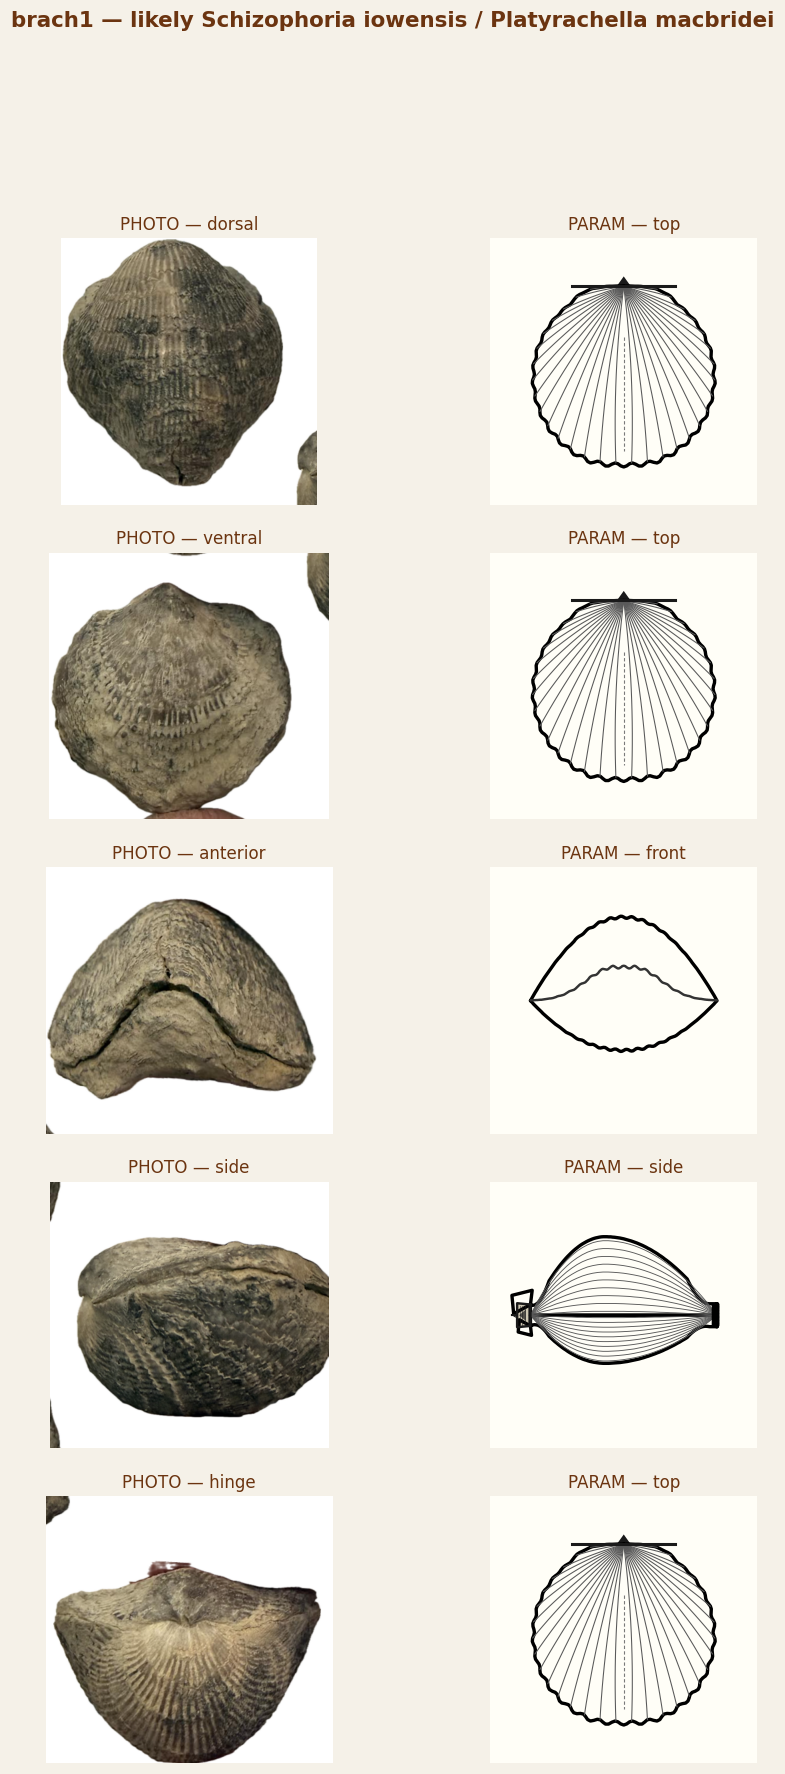
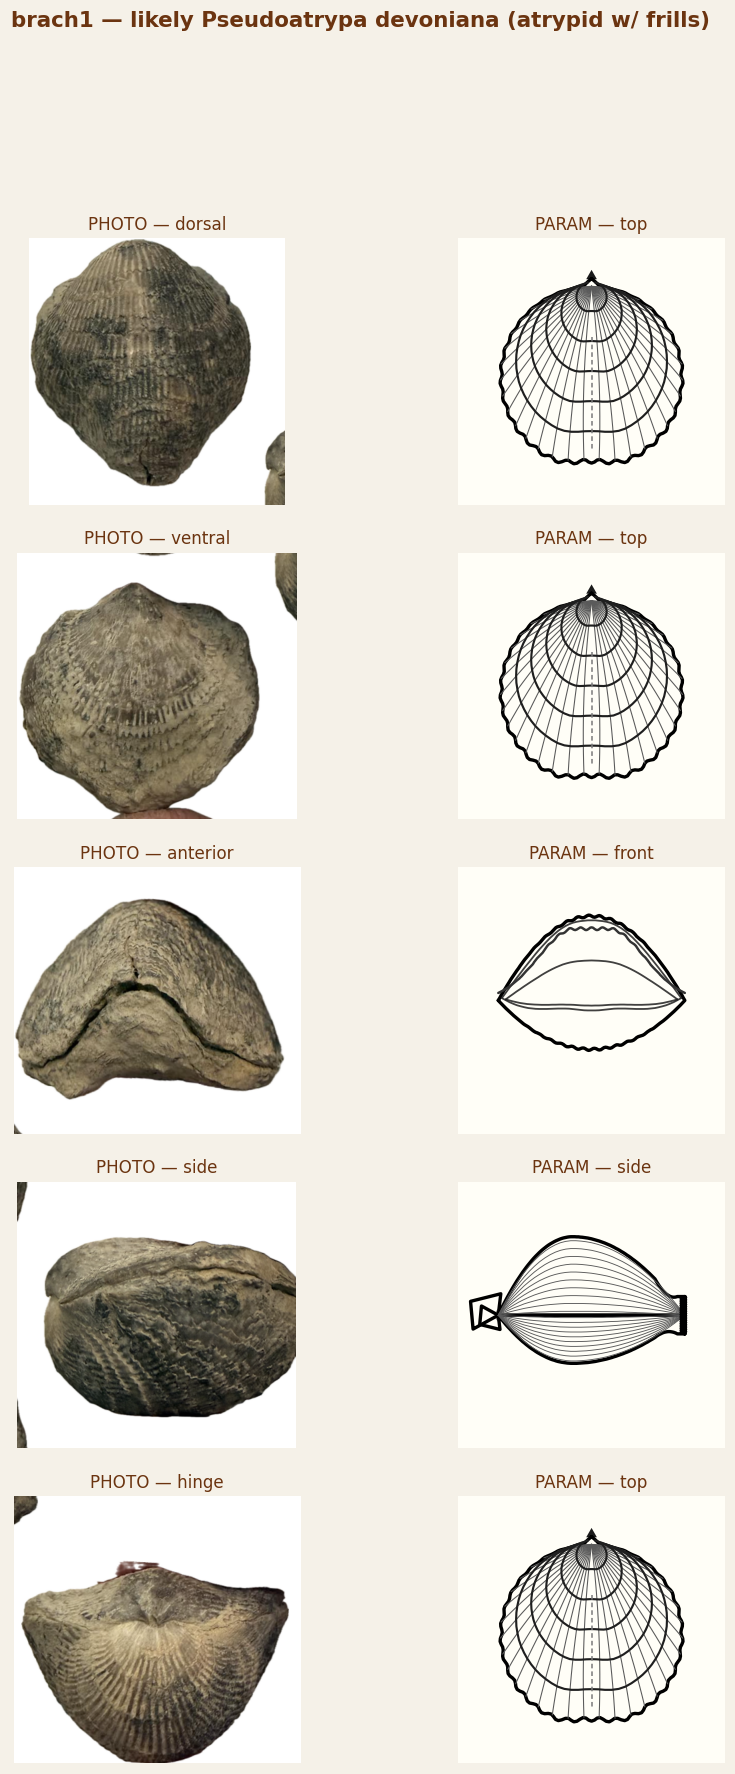
Reconcile brach1/4/5 IDs into library; correct diagnostic guesses
User-confirmed IDs for the Rockford specimens:
  brach1: Pseudoatrypa devoniana  (was: Schizophoria/Platyrachella)
  brach2: Schizophoria iowensis   (already correct)
  brach3: Conispirifer cyrtinaeformis  (already correct)
  brach4: Cyrtospirifer whitneyi  (already correct)
  brach5: Spinatrypa rockfordensis  (was: Pseudoatrypa devoniana)
  brach6: Theodossia hungerfordi  (already correct)

Three image copies into the species library:
  brach1.png → images/pseudoatrypa/rockford/devoniana_jsm_02.png
  brach4.png → images/cyrtospirifer/rockford/whitneyi_jsm_02.png
  brach5.png → images/spinatrypa/rockford/rockfordensis_jsm_01.png

Manifest images arrays for those three taxa updated with the new
jsm photos placed first so they're the primary specimen view.

Diagnostic_overlay.py updated:
  - brach1 traits switched from Schizophoria-flavored
    (narrow-strophic, weak fold) to Pseudoatrypa-flavored
    (astrophic, frills, strong fold)
  - brach5 traits switched from Pseudoatrypa-flavored to
    Spinatrypa-flavored (adds surface_spines)

All six diagnostics regenerated.

diff --git a/manifest.js b/manifest.js
@@ -98,6 +98,7 @@ const FAUNA = [
                      sulcus_depth: 0.000, sulcus_sigma: 0.180,
                      overlay: "images/morphospace/spinocyrtia_iowensis_overlay.png" },
             images: [
+              { file: "whitneyi_jsm_02.png",    src: "jsm"    },
               { file: "whitneyi_nathan_01.jpg", src: "nathan" },
               { file: "whitneyi_dave_01.jpg",   src: "dave"   },
               { file: "whitneyi_dave_02.jpg",   src: "dave"   },
@@ -174,6 +175,7 @@ const FAUNA = [
                      sulcus_depth: 0.105, sulcus_sigma: 0.286,
                      overlay: "images/morphospace/atrypa_devoniana_overlay.png" },
             images: [
+              { file: "devoniana_jsm_02.png",       src: "jsm"       },
               { file: "devoniana_nathan_01.jpg",    src: "nathan"    },
               { file: "devoniana_dave_01.jpg",      src: "dave"      },
               { file: "devoniana_eqmn_01.png",      src: "eqmn"      },
@@ -196,6 +198,7 @@ const FAUNA = [
             note: "Medium-to-large; biconvex to dorsibiconvex; wider than long with rounded outline; coarse undulating ribs (4–7/10 mm); spinose lamellae. Holotype from Rockford Quarry (Day & Copper 1998).",
             traits: { surface_ribs: "yes", surface_frills: "yes", surface_spines: "yes", profile: "biconvex", hinge: "astrophic", spines: "absent", fold_sulcus: "weak", outline: "subcircular", size: "medium", umbones: "ribbed" },
             images: [
+              { file: "rockfordensis_jsm_01.png",       src: "jsm"       },
               { file: "rockfordensis_nathan_01.jpg",    src: "nathan"    },
               { file: "rockfordensis_unk_01.webp",      src: "unk"       },
               { file: "rockfordensis_daycopper_01.png", src: "daycopper" }

diff --git a/data/fit_harness/diagnostic_overlay.py b/data/fit_harness/diagnostic_overlay.py
@@ -36,10 +36,11 @@ SPECIMENS = [
              hinge    =(870, 470, 1300, 870),
              side     =(420, 230,  870, 660),
          ),
-         best_guess="Schizophoria iowensis / Platyrachella macbridei",
+         best_guess="Pseudoatrypa devoniana (atrypid w/ frills)",
          answers=dict(outline_pick="subcircular", profile_pick="biconvex",
-                       hinge_pick="narrow-strophic", surface_ribs="yes",
-                       rib_density="dense", fold_pick="weak",
+                       hinge_pick="astrophic", surface_ribs="yes",
+                       rib_density="dense", surface_frills="yes",
+                       fold_pick="strong",
                        beak_pick="moderate", lateral_pick="smooth")),
     dict(name="brach2",
          photo="images/unknown_misc/rockford/brach2.png",
@@ -98,11 +99,11 @@ SPECIMENS = [
              hinge    =(920,   60, 1290, 320),
              anterior =(940, 420, 1290, 720),
          ),
-         best_guess="Pseudoatrypa devoniana (atrypid w/ frills)",
+         best_guess="Spinatrypa rockfordensis (spinose atrypid)",
          answers=dict(outline_pick="subcircular", profile_pick="biconvex",
                        hinge_pick="astrophic", surface_ribs="yes",
                        rib_density="sparse", surface_frills="yes",
-                       fold_pick="weak",
+                       surface_spines="yes", fold_pick="weak",
                        beak_pick="moderate", lateral_pick="smooth")),
     # brach6 — Theodossia hungerfordi: globose subcircular biconvex
     # spiriferid with prominent uniplicate fold, subdued ribs, and a